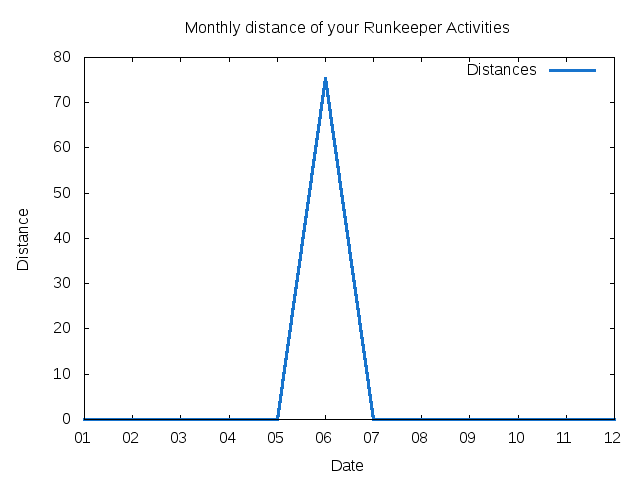
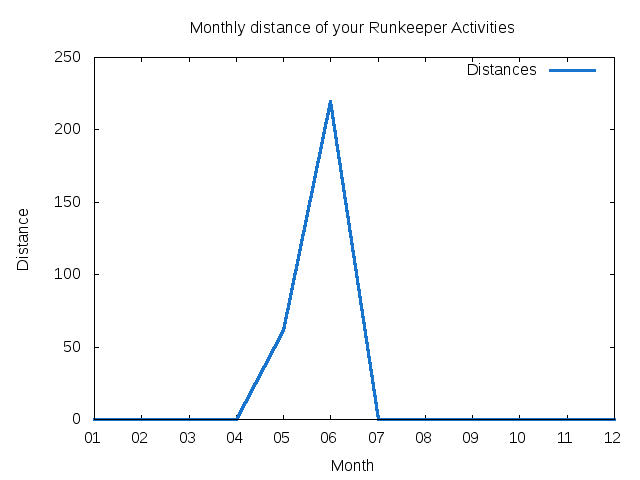
some general changes

diff --git a/html/activities.html b/html/activities.html
@@ -4,7 +4,7 @@
 		<meta charset="utf-8" />
 		<meta name="author" content="Florian Baumann" />
 
-		<title>Runkeeper Gnuplots</title>
+		<title>Runkeeper Statistics</title>
 
 		<link rel="stylesheet" type="text/css" href="css/style.css" media="all" />
         <link href='http://fonts.googleapis.com/css?family=Viga' rel='stylesheet' type='text/css'>
@@ -22,7 +22,7 @@
 
 <div id="wrapper">
 <div id="header">
-		<h1><span class="green">R</span>unkeeper GnuPlots</h1>
+		<h1><span class="green">R</span>unkeeper Statistics</h1>
 	</div> <!-- header -->
     <center>
 	<div id="menuh-container">
@@ -40,7 +40,7 @@
 				<li><a href="activities.html">Activity Log</a></li>
 			</ul>
 			<ul>
-			    <li><a href="http://github.com/noqqe/runkeeper-gnuplots">GitHub</a></li>
+			    <li><a href="http://github.com/noqqe/runkeeper-statistics">GitHub</a></li>
 			</ul>
 			
 			<div class="clear_left"> <!-- clear: left --> </div>
@@ -50,15 +50,38 @@
 <div id="content">
 <h2>Your Activities</h2>
 <ul>
-<li>  4<br>Date:   2012-06-30<br>Distance:   2012-06-30<br>Duration:  27.28<br>Pace:     1.47<br>Speed:      3.56<br>Burned:  15.24<br>Climb:  876<br><br></li>
-<li>  3<br>Date:   2012-06-28<br>Distance:   2012-06-28<br>Duration:  17.65<br>Pace:     1.13<br>Speed:      4.11<br>Burned:  14.36<br>Climb:  618<br><br></li>
-<li>  2<br>Date:   2012-06-26<br>Distance:   2012-06-26<br>Duration:  16.28<br>Pace:     1.09<br>Speed:      4.17<br>Burned:  14.03<br>Climb:  582<br><br></li>
-<li>  1<br>Date:   2012-06-23<br>Distance:   2012-06-23<br>Duration:  14.07<br>Pace:     0.54<br>Speed:      3.54<br>Burned:  15.38<br>Climb:  458<br><br></li>
+<li>27<br>Date:    2012-06-30<br>Distance:    2012-06-30<br>Duration:    27.28<br>Pace:     1.47<br>Speed:      3.56<br>Burned:  15.24<br>Climb:   876<br><br></li>
+<li>26<br>Date:    2012-06-29<br>Distance:    2012-06-29<br>Duration:    7.30<br>Pace:      0.46<br>Speed:      6.22<br>Burned:   9.42<br>Climb:   389<br><br></li>
+<li>25<br>Date:    2012-06-28<br>Distance:    2012-06-28<br>Duration:    17.65<br>Pace:     1.13<br>Speed:      4.11<br>Burned:  14.36<br>Climb:   618<br><br></li>
+<li>24<br>Date:    2012-06-26<br>Distance:    2012-06-26<br>Duration:    16.28<br>Pace:     1.09<br>Speed:      4.17<br>Burned:  14.03<br>Climb:   582<br><br></li>
+<li>23<br>Date:    2012-06-23<br>Distance:    2012-06-23<br>Duration:    14.07<br>Pace:     0.54<br>Speed:      3.54<br>Burned:  15.38<br>Climb:   458<br><br></li>
+<li>22<br>Date:    2012-06-22<br>Distance:    2012-06-22<br>Duration:    18.10<br>Pace:     1.16<br>Speed:      4.15<br>Burned:  14.18<br>Climb:   648<br><br></li>
+<li>21<br>Date:    2012-06-18<br>Distance:    2012-06-18<br>Duration:    16.00<br>Pace:     0.57<br>Speed:      3.15<br>Burned:  16.74<br>Climb:   630<br><br></li>
+<li>20<br>Date:    2012-06-17<br>Distance:    2012-06-17<br>Duration:    11.84<br>Pace:     0.42<br>Speed:      3.37<br>Burned:  16.58<br>Climb:   378<br><br></li>
+<li>19<br>Date:    2012-06-16<br>Distance:    2012-06-16<br>Duration:    14.16<br>Pace:     0.59<br>Speed:      4.12<br>Burned:  14.30<br>Climb:   515<br><br></li>
+<li>18<br>Date:    2012-06-09<br>Distance:    2012-06-09<br>Duration:    14.75<br>Pace:     0.59<br>Speed:      4.01<br>Burned:  14.94<br>Climb:   532<br><br></li>
+<li>17<br>Date:    2012-06-07<br>Distance:    2012-06-07<br>Duration:    31.50<br>Pace:     2.35<br>Speed:      4.57<br>Burned:  12.13<br>Climb:   1214<br><br></li>
+<li>16<br>Date:    2012-06-02<br>Distance:    2012-06-02<br>Duration:    7.17<br>Pace:      0.28<br>Speed:      4.00<br>Burned:  15.02<br>Climb:   230<br><br></li>
+<li>15<br>Date:    2012-06-02<br>Distance:    2012-06-02<br>Duration:    8.68<br>Pace:      0.38<br>Speed:      4.25<br>Burned:  13<br>Climb: 57<br><br></li>
+<li>14<br>Date:    2012-06-02<br>Distance:    2012-06-02<br>Duration:    14.55<br>Pace:     0.51<br>Speed:      3.31<br>Burned:  17.06<br>Climb:   471<br><br></li>
+<li>13<br>Date:    2012-05-26<br>Distance:    2012-05-26<br>Duration:    6.39<br>Pace:      0.37<br>Speed:      5.49<br>Burned:  10.31<br>Climb:   256<br><br></li>
+<li>12<br>Date:    2012-05-22<br>Distance:    2012-05-22<br>Duration:    14.19<br>Pace:     0.52<br>Speed:      3.41<br>Burned:  16.29<br>Climb:   433<br><br></li>
+<li>11<br>Date:    2012-05-17<br>Distance:    2012-05-17<br>Duration:    7.10<br>Pace:      0.34<br>Speed:      4.52<br>Burned:  12.33<br>Climb:   246<br><br></li>
+<li>10<br>Date:    2012-05-01<br>Distance:    2012-05-01<br>Duration:    33.82<br>Pace:     1.34<br>Speed:      2.48<br>Burned:  21.37<br>Climb:   1054<br><br></li>
+<li>9<br>Date:     2011-09-12<br>Distance:     2011-09-12<br>Duration:    10.72<br>Pace:     0.39<br>Speed:      3.38<br>Burned:  16.48<br>Climb:   379<br><br></li>
+<li>8<br>Date:     2011-09-04<br>Distance:     2011-09-04<br>Duration:    17.80<br>Pace:     1.04<br>Speed:      3.39<br>Burned:  16.46<br>Climb:   592<br><br></li>
+<li>7<br>Date:     2011-08-30<br>Distance:     2011-08-30<br>Duration:    3.78<br>Pace:      0.13<br>Speed:      3.38<br>Burned:  16.49<br>Climb:   145<br><br></li>
+<li>6<br>Date:     2011-08-28<br>Distance:     2011-08-28<br>Duration:    3.47<br>Pace:      0.10<br>Speed:      2.55<br>Burned:  20.60<br>Climb:   101<br><br></li>
+<li>5<br>Date:     2011-08-26<br>Distance:     2011-08-26<br>Duration:    9.27<br>Pace:      0.33<br>Speed:      3.40<br>Burned:  16.30<br>Climb:   319<br><br></li>
+<li>4<br>Date:     2011-08-25<br>Distance:     2011-08-25<br>Duration:    8.36<br>Pace:      0.28<br>Speed:      3.25<br>Burned:  17.55<br>Climb:   257<br><br></li>
+<li>3<br>Date:     2011-08-14<br>Distance:     2011-08-14<br>Duration:    11.06<br>Pace:     0.59<br>Speed:      5.25<br>Burned:  11.06<br>Climb:   467<br><br></li>
+<li>2<br>Date:     2011-08-14<br>Distance:     2011-08-14<br>Duration:    7.41<br>Pace:      0.45<br>Speed:      6.09<br>Burned:  9.75<br>Climb:    317<br><br></li>
+<li>1<br>Date:     2011-08-13<br>Distance:     2011-08-13<br>Duration:    5.98<br>Pace:      0.37<br>Speed:      6.20<br>Burned:  9.47<br>Climb:    256<br><br></li>
 </ul>
 </div> <!-- content -->
 	<div id="footer">
       Thanks a lot to GnuPlot and it's developers.<br/>
-      Runkeeper-gnuplots is written by Florian Baumann. 
+      Runkeeper-statistics is written by Florian Baumann. 
 	</div>
 </div> <!-- wrapper -->
 

diff --git a/html/overall.html b/html/overall.html
@@ -4,7 +4,7 @@
 		<meta charset="utf-8" />
 		<meta name="author" content="Florian Baumann" />
 
-		<title>Runkeeper Gnuplots</title>
+		<title>Runkeeper Statistics</title>
 
 		<link rel="stylesheet" type="text/css" href="css/style.css" media="all" />
         <link href='http://fonts.googleapis.com/css?family=Viga' rel='stylesheet' type='text/css'>
@@ -22,7 +22,7 @@
 
 <div id="wrapper">
 <div id="header">
-		<h1><span class="green">R</span>unkeeper GnuPlots</h1>
+		<h1><span class="green">R</span>unkeeper Statistics</h1>
 	</div> <!-- header -->
     <center>
 	<div id="menuh-container">
@@ -40,7 +40,7 @@
 				<li><a href="activities.html">Activity Log</a></li>
 			</ul>
 			<ul>
-			    <li><a href="http://github.com/noqqe/runkeeper-gnuplots">GitHub</a></li>
+			    <li><a href="http://github.com/noqqe/runkeeper-statistics">GitHub</a></li>
 			</ul>
 			
 			<div class="clear_left"> <!-- clear: left --> </div>
@@ -49,16 +49,16 @@
   </center>
 <div id="content">
 <h2>Overall Stats</h2>
-Climb: 1069 metres of height<br>
-Calories: 2534 <br>
-Distance: 75.28 km<br>
+Climb: 4100 metres of height<br>
+Calories: 12420 <br>
+Distance: 358.68 km<br>
 Speed Average: 14 km/h<br>
-Pace Average: 3 minutes per km<br>
-Duration: 4.23 hours<br>
+Pace Average: 4 minutes per km<br>
+Duration: 17.79 hours<br>
 </div> <!-- content -->
 	<div id="footer">
       Thanks a lot to GnuPlot and it's developers.<br/>
-      Runkeeper-gnuplots is written by Florian Baumann. 
+      Runkeeper-statistics is written by Florian Baumann. 
 	</div>
 </div> <!-- wrapper -->
 

diff --git a/html/index.html b/html/index.html
@@ -4,7 +4,7 @@
 		<meta charset="utf-8" />
 		<meta name="author" content="Florian Baumann" />
 
-		<title>Runkeeper Gnuplots</title>
+		<title>Runkeeper Statistics</title>
 
 		<link rel="stylesheet" type="text/css" href="css/style.css" media="all" />
         <link href='http://fonts.googleapis.com/css?family=Viga' rel='stylesheet' type='text/css'>
@@ -22,7 +22,7 @@
 
 <div id="wrapper">
 <div id="header">
-		<h1><span class="green">R</span>unkeeper GnuPlots</h1>
+		<h1><span class="green">R</span>unkeeper Statistics</h1>
 	</div> <!-- header -->
     <center>
 	<div id="menuh-container">
@@ -40,7 +40,7 @@
 				<li><a href="activities.html">Activity Log</a></li>
 			</ul>
 			<ul>
-			    <li><a href="http://github.com/noqqe/runkeeper-gnuplots">GitHub</a></li>
+			    <li><a href="http://github.com/noqqe/runkeeper-statistics">GitHub</a></li>
 			</ul>
 			
 			<div class="clear_left"> <!-- clear: left --> </div>
@@ -58,7 +58,7 @@
 </div> <!-- content -->
 	<div id="footer">
       Thanks a lot to GnuPlot and it's developers.<br/>
-      Runkeeper-gnuplots is written by Florian Baumann. 
+      Runkeeper-statistics is written by Florian Baumann. 
 	</div>
 </div> <!-- wrapper -->
 

diff --git a/html/monthly.html b/html/monthly.html
@@ -4,7 +4,7 @@
 		<meta charset="utf-8" />
 		<meta name="author" content="Florian Baumann" />
 
-		<title>Runkeeper Gnuplots</title>
+		<title>Runkeeper Statistics</title>
 
 		<link rel="stylesheet" type="text/css" href="css/style.css" media="all" />
         <link href='http://fonts.googleapis.com/css?family=Viga' rel='stylesheet' type='text/css'>
@@ -22,7 +22,7 @@
 
 <div id="wrapper">
 <div id="header">
-		<h1><span class="green">R</span>unkeeper GnuPlots</h1>
+		<h1><span class="green">R</span>unkeeper Statistics</h1>
 	</div> <!-- header -->
     <center>
 	<div id="menuh-container">
@@ -40,7 +40,7 @@
 				<li><a href="activities.html">Activity Log</a></li>
 			</ul>
 			<ul>
-			    <li><a href="http://github.com/noqqe/runkeeper-gnuplots">GitHub</a></li>
+			    <li><a href="http://github.com/noqqe/runkeeper-statistics">GitHub</a></li>
 			</ul>
 			
 			<div class="clear_left"> <!-- clear: left --> </div>
@@ -54,7 +54,7 @@
 </div> <!-- content -->
 	<div id="footer">
       Thanks a lot to GnuPlot and it's developers.<br/>
-      Runkeeper-gnuplots is written by Florian Baumann. 
+      Runkeeper-statistics is written by Florian Baumann. 
 	</div>
 </div> <!-- wrapper -->
 

diff --git a/html/header.html b/html/header.html
@@ -4,7 +4,7 @@
 		<meta charset="utf-8" />
 		<meta name="author" content="Florian Baumann" />
 
-		<title>Runkeeper Gnuplots</title>
+		<title>Runkeeper Statistics</title>
 
 		<link rel="stylesheet" type="text/css" href="css/style.css" media="all" />
         <link href='http://fonts.googleapis.com/css?family=Viga' rel='stylesheet' type='text/css'>
@@ -22,7 +22,7 @@
 
 <div id="wrapper">
 <div id="header">
-		<h1><span class="green">R</span>unkeeper GnuPlots</h1>
+		<h1><span class="green">R</span>unkeeper Statistics</h1>
 	</div> <!-- header -->
     <center>
 	<div id="menuh-container">
@@ -40,7 +40,7 @@
 				<li><a href="activities.html">Activity Log</a></li>
 			</ul>
 			<ul>
-			    <li><a href="http://github.com/noqqe/runkeeper-gnuplots">GitHub</a></li>
+			    <li><a href="http://github.com/noqqe/runkeeper-statistics">GitHub</a></li>
 			</ul>
 			
 			<div class="clear_left"> <!-- clear: left --> </div>

diff --git a/html/footer.html b/html/footer.html
@@ -1,6 +1,6 @@
 	<div id="footer">
       Thanks a lot to GnuPlot and it's developers.<br/>
-      Runkeeper-gnuplots is written by Florian Baumann. 
+      Runkeeper-statistics is written by Florian Baumann. 
 	</div>
 </div> <!-- wrapper -->
 
